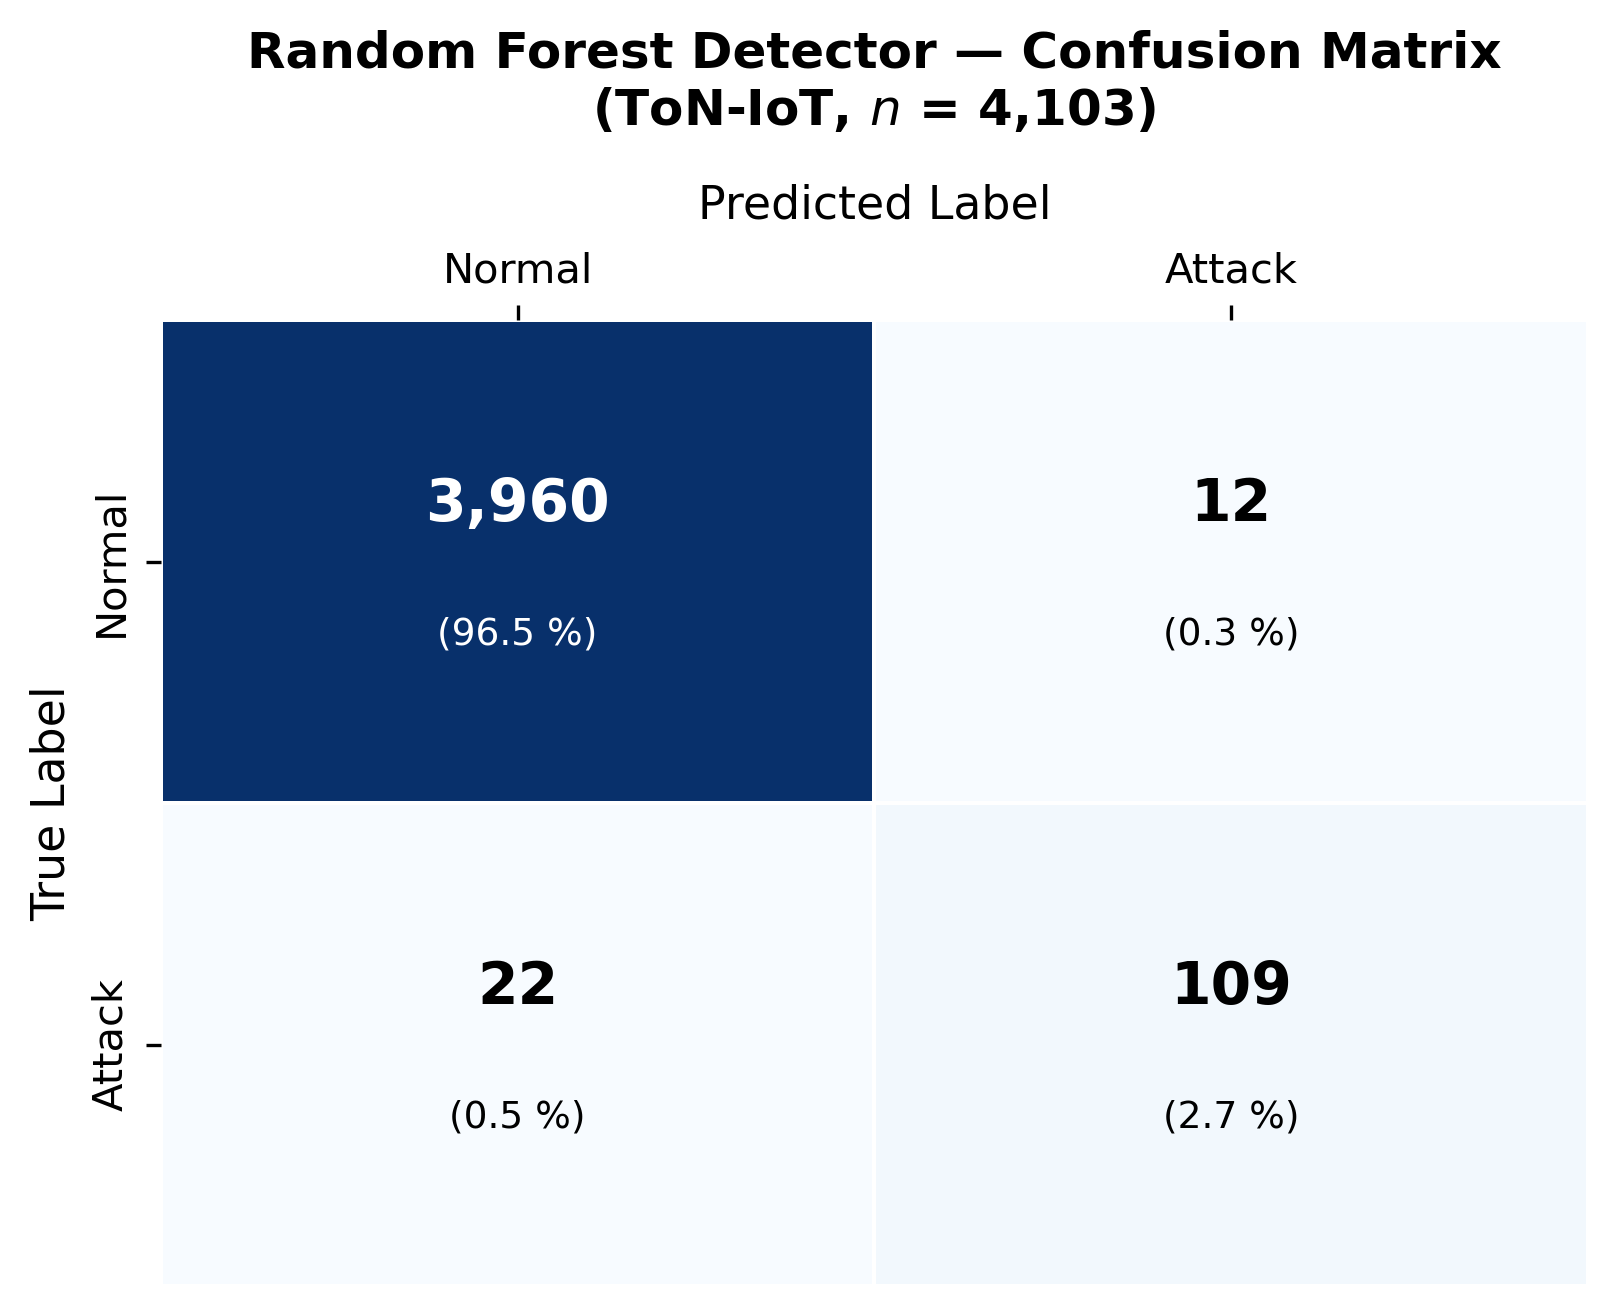
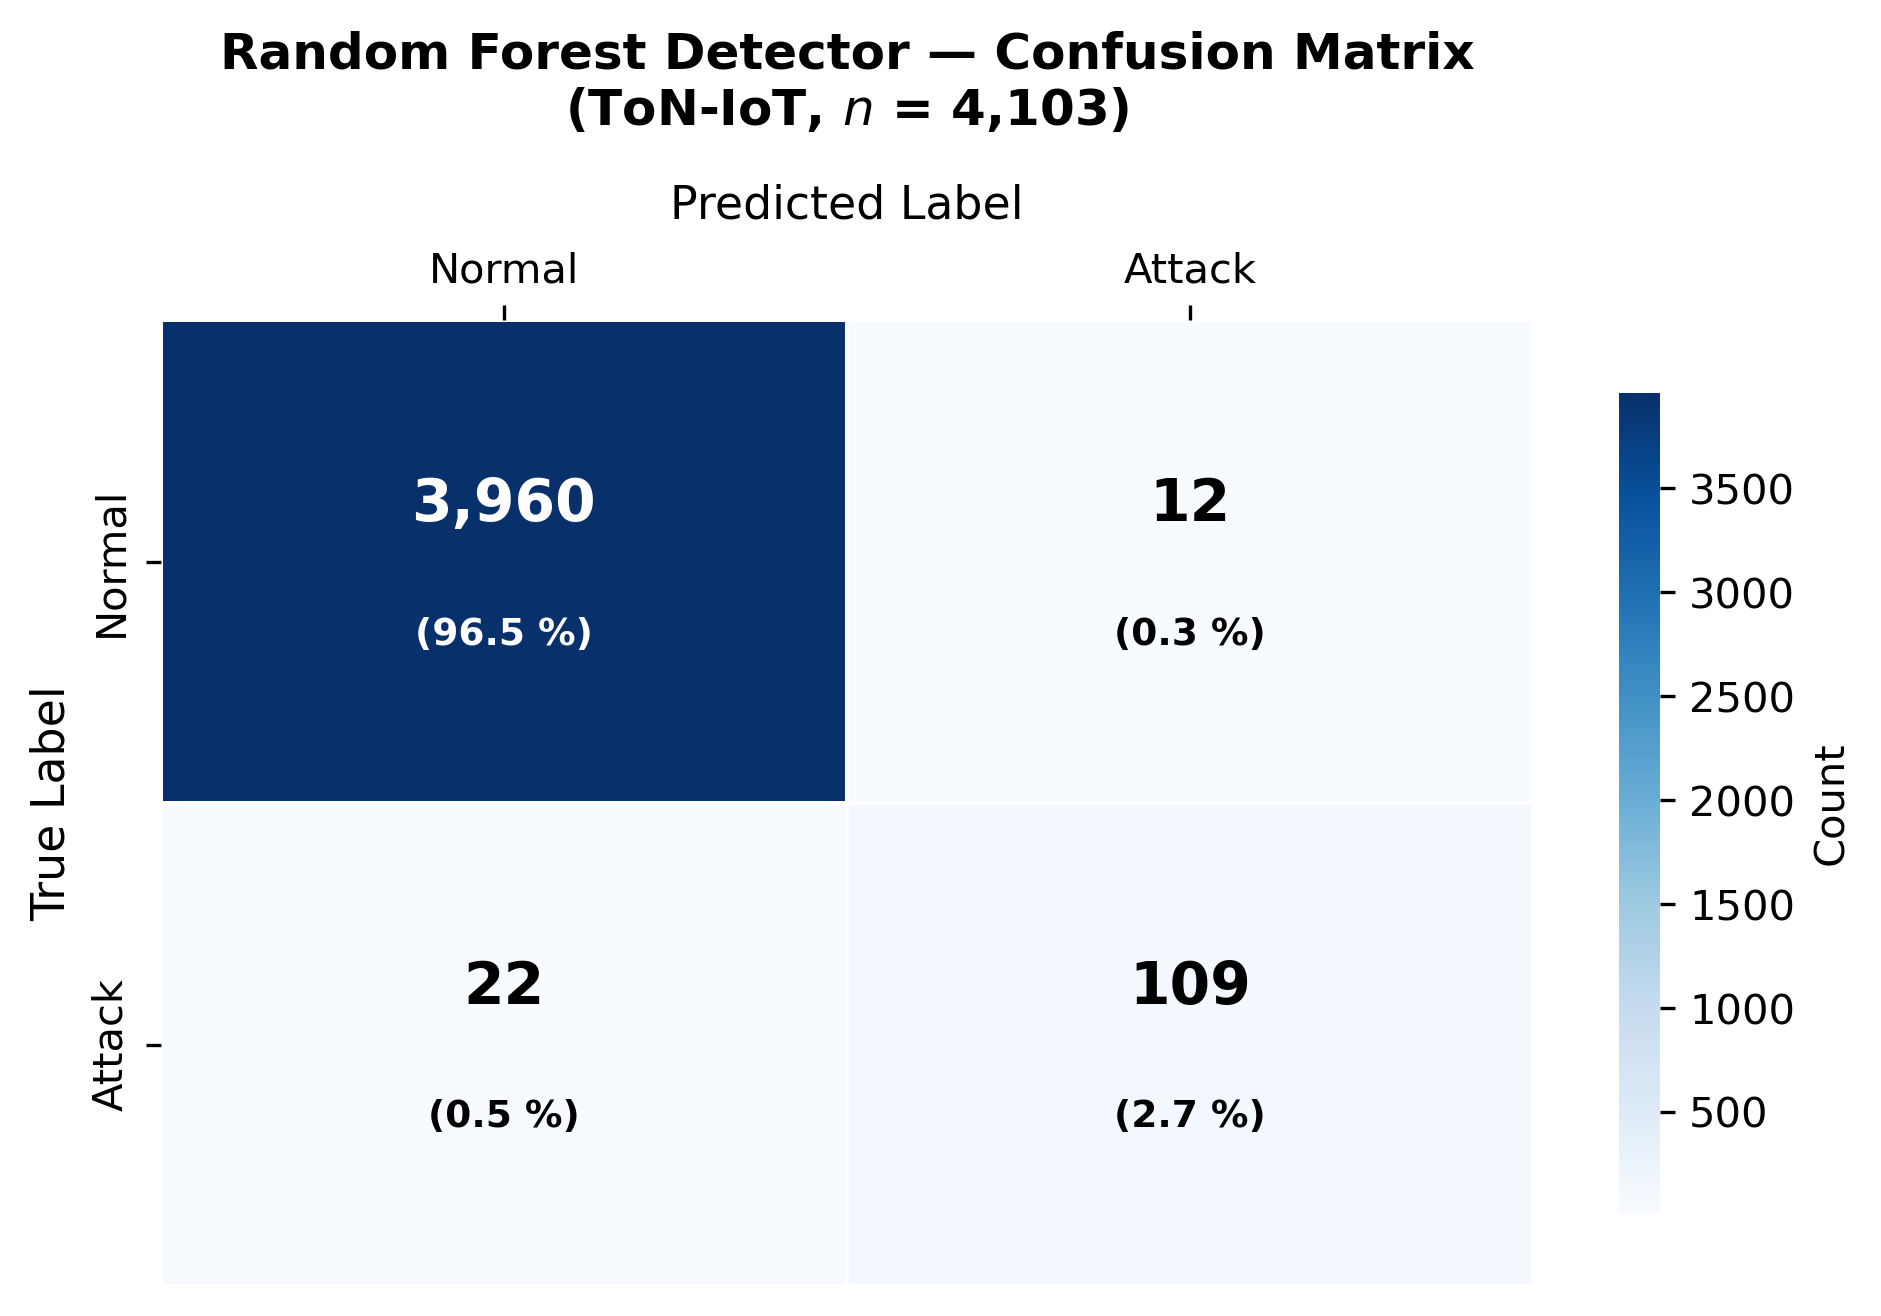
Polish confusion matrix: bold percentages, Count colorbar
Make percentage annotations bold to match count text weight;
add Count colorbar on the right for publication-quality output.

diff --git a/train_random_forest.py b/train_random_forest.py
@@ -150,11 +150,11 @@ print("  training_metadata.txt")
 # ── CONFUSION MATRIX PLOT ─────────────────────────────────────────────────────
 n_total = len(y_test)
 cm_data = [[tn, fp], [fn, tp]]
-cm_labels = [['TN', 'FP'], ['FN', 'TP']]
 
-fig, ax = plt.subplots(figsize=(5.5, 4.5))
+fig, ax = plt.subplots(figsize=(6.5, 4.5))
 sns.heatmap(
-    cm_data, annot=False, fmt='d', cmap='Blues', ax=ax, cbar=False,
+    cm_data, annot=False, cmap='Blues', ax=ax,
+    cbar_kws={'label': 'Count', 'shrink': 0.85},
     xticklabels=['Normal', 'Attack'],
     yticklabels=['Normal', 'Attack'],
     linewidths=0.5, linecolor='white',
@@ -169,15 +169,15 @@ ax.set_title(
 )
 
 norm = tn + fp + fn + tp
-for i, (row_vals, row_keys) in enumerate(zip(cm_data, cm_labels)):
-    for j, (val, key) in enumerate(zip(row_vals, row_keys)):
-        pct  = val / norm * 100
-        cell_max = max(tn, fp, fn, tp)
+cell_max = max(tn, fp, fn, tp)
+for i, row_vals in enumerate(cm_data):
+    for j, val in enumerate(row_vals):
+        pct   = val / norm * 100
         color = 'white' if val > cell_max * 0.5 else 'black'
         ax.text(j + 0.5, i + 0.38, f'{val:,}',
                 ha='center', va='center', fontsize=14, fontweight='bold', color=color)
         ax.text(j + 0.5, i + 0.65, f'({pct:.1f} %)',
-                ha='center', va='center', fontsize=9, color=color)
+                ha='center', va='center', fontsize=9, fontweight='bold', color=color)
 
 plt.tight_layout()
 plt.savefig('confusion_matrix_rf.png', dpi=300, bbox_inches='tight')